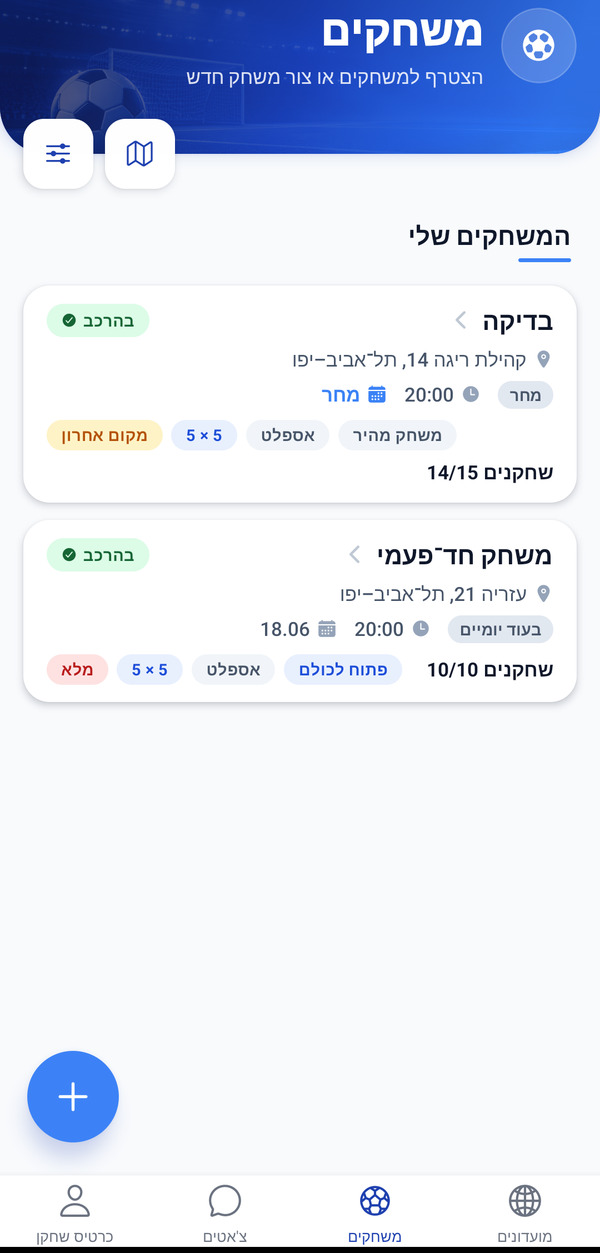
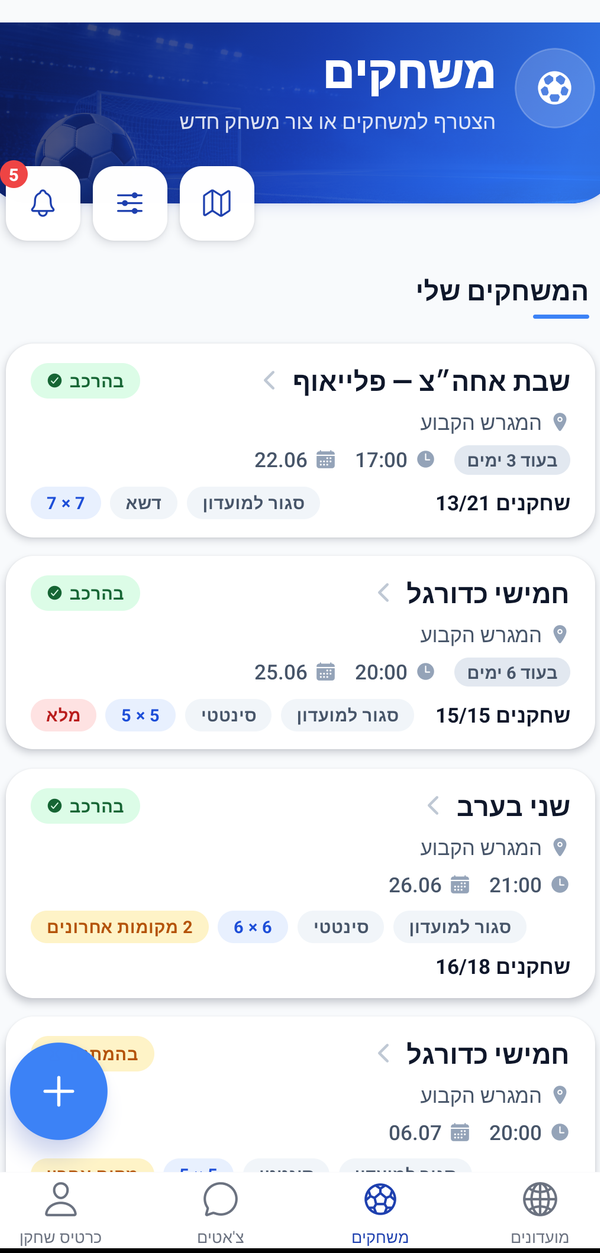
1.0.26: refresh onboarding screenshots + fix chat crash in mock mode
- Onboarding previews recaptured with rich, realistic data (games feed,
  club detail, game detail with a filling roster) — replaces the old
  empty "בדיקה" placeholders. Slide 3 now shows the roster/fill flow,
  matching its "המקום מתמלא אוטומטית" copy.
- chatService.subscribeUnread: guard USE_MOCK_DATA — it hit getFirebase()
  unconditionally and crashed the whole app at MainTabs mount in mock mode.
- mockData: gv2-6 seeds 3 pending join requests so the Requests inbox is
  demonstrable in mock mode.
- Bump version to 1.0.26.

diff --git a/src/services/chatService.ts b/src/services/chatService.ts
@@ -20,6 +20,7 @@ import {
 } from 'firebase/firestore';
 
 import { col } from '@/firebase/firestore';
+import { USE_MOCK_DATA } from '@/firebase/config';
 import { logError } from '@/services/errorLog';
 import type { ChatMessage, ChatScope, ChatUnreadEntry, User, UserId } from '@/types';
 
@@ -130,6 +131,12 @@ export const chatService = {
     uid: UserId,
     cb: (entries: ChatUnreadEntry[]) => void,
   ): () => void {
+    // Mock mode has no chat backend — emit an empty list once and no-op the
+    // unsubscribe so the app-wide subscriber in MainTabs doesn't hit Firebase.
+    if (USE_MOCK_DATA) {
+      cb([]);
+      return () => {};
+    }
     return onSnapshot(col.userChatUnread(uid), (snap) => {
       cb(
         snap.docs.map((d) => {

diff --git a/src/screens/onboarding/OnboardingPreviews.tsx b/src/screens/onboarding/OnboardingPreviews.tsx
@@ -1,8 +1,8 @@
 // In-app "screenshots" for the pre-sign-in onboarding. These are REAL
-// captures of the live app (games feed, club detail, live match + rotation),
-// cropped to app content and shown inside a clean phone frame so the product
-// sells itself before sign-up. Source PNGs live in
-// assets/images/onboarding/ (600px wide, status bar / gesture bar stripped).
+// captures of the live app (games feed, club detail, game detail with its
+// filling roster), cropped to app content and shown inside a clean phone
+// frame so the product sells itself before sign-up. Source PNGs live in
+// assets/images/onboarding/ (600×1253, status bar / ad / gesture bar stripped).
 
 import React from 'react';
 import {

diff --git a/src/data/mockData.ts b/src/data/mockData.ts
@@ -288,8 +288,8 @@ export const mockGamesV2: Game[] = [
     minPlayers: 14,
     players: mockPlayers.slice(0, 13).map((p) => p.id), // 13 of 21, includes ME
     waitlist: [],
-    pending: [],
-    participantIds: unionIds(mockPlayers.slice(0, 13).map((p) => p.id), [], []),
+    pending: mockPlayers.slice(13, 16).map((p) => p.id), // 3 awaiting my approval
+    participantIds: unionIds(mockPlayers.slice(0, 13).map((p) => p.id), [], mockPlayers.slice(13, 16).map((p) => p.id)),
     ballHolderUserId: mockPlayers[4].id,
     status: 'open',
     locked: false,
